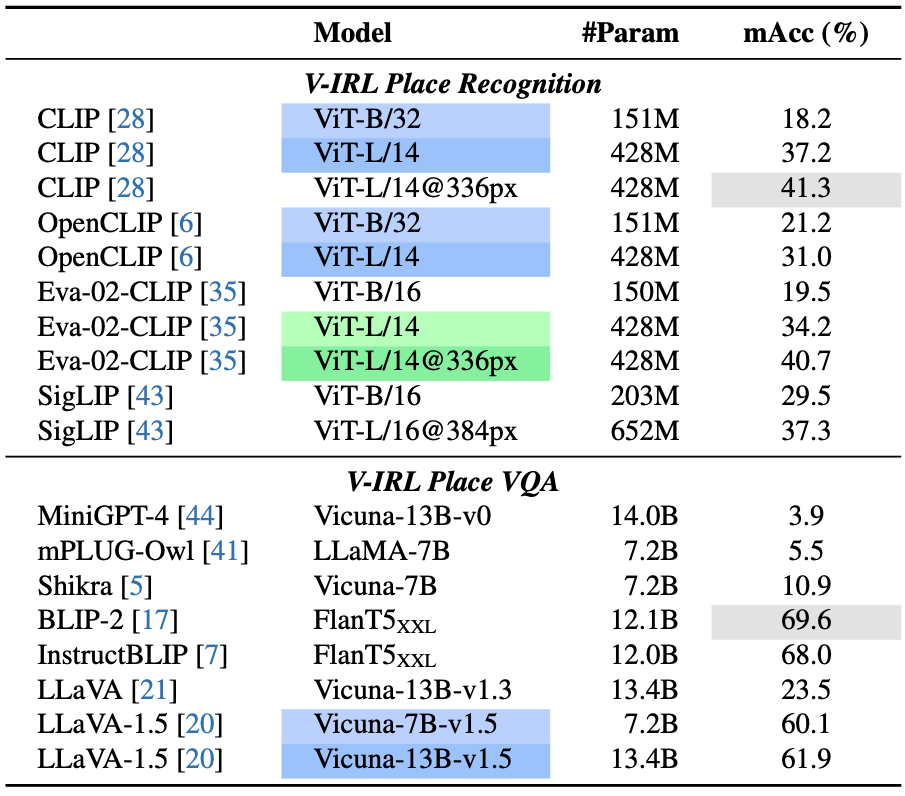
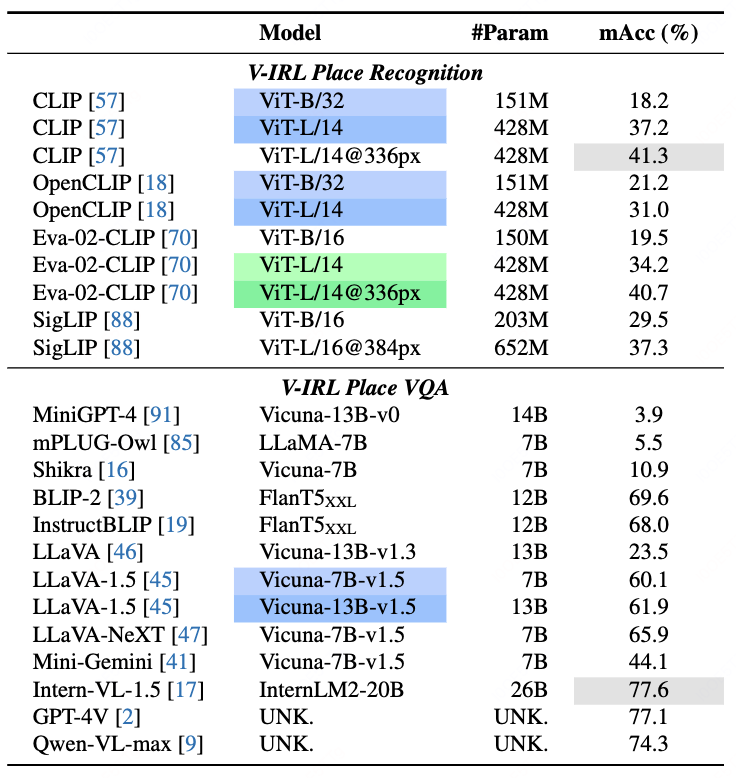
update results

diff --git a/index.html b/index.html
@@ -1263,7 +1263,7 @@
         </p>
         <p class="text">
             <strong>Setups:</strong> We modify RX-399 agent to traverse polygonal areas while localizing & identifying 20 types of places.
-            We evaluate three prominent open-world detection models:  GroundingDINO <d-cite key="liu2023grounding"></d-cite>, GLIP <d-cite key="li2022grounded"></d-cite> and Owl-ViT <d-cite key="minderer2022simple"></d-cite>. We also implement a straightforward baseline, CLIP (w/ GLIP proposal), which involves reclassifying the categories
+            We evaluate three prominent open-world detection models:  GroundingDINO <d-cite key="liu2023grounding"></d-cite>, GLIP <d-cite key="li2022grounded"></d-cite>, Owl-ViT <d-cite key="minderer2022simple"></d-cite>, OpenSeeD <d-cite key="zhang2023openseed"></d-cite> and Owl-ViT v2 <d-cite key="minderer2024owlvitv2"></d-cite>. We also implement a straightforward baseline, CLIP (w/ GLIP proposal), which involves reclassifying the categories
             of GLIP proposals with CLIP <d-cite key="radford2021learning"></d-cite>.
             Models are evaluated on localization recall, which is quantified as 
             <math xmlns="http://www.w3.org/1998/Math/MathML">
@@ -1428,7 +1428,7 @@
             </div>
         </div>
         <p class="text">
-        For intention VQA, we also evaluate 8 multi-modal large language models (MM-LLM) to determine viable human intentions from a four-option multiple-choice VQA. The V-<i>RL Place</i> VQA process is illustrated in following image, where the candidate and true choices are generated by GPT-4 <d-cite key="openai2023gpt"></d-cite> given the place types and place names corresponding to the image.
+        For intention VQA, we also evaluate 13 multi-modal large language models (MM-LLM) to determine viable human intentions from a four-option multiple-choice VQA. The V-<i>RL Place</i> VQA process is illustrated in following image, where the candidate and true choices are generated by GPT-4 <d-cite key="openai2023gpt"></d-cite> given the place types and place names corresponding to the image.
         </p>
         <figure style="margin-top: 0px; margin-bottom: 0px">
             <img src="static/img/bm_vqa_example.jpg" alt="V-IRL Place VQA" style="width: 80%; display: block; margin: auto;">
@@ -1437,9 +1437,9 @@
 
         <p class="text">
             <strong>Results:</strong> Following table shows that CLIP (L/14@336px) outperforms even the biggest version of Eva-02-CLIP and SigLIP in the V-<i>RL Place</i> recognition task, emphasizing the high-quality data of CLIP. 
-            The bottom of the table shows that in the intention VQA, 
-            BLIP2 <d-cite key="li2023blip"></d-cite>, InstructBLIP <d-cite key="dai2023instructblip"></d-cite> and LLaVA-1.5 <d-cite key="liu2023improvedllava"></d-cite> excel, whereas others struggle. 
-            We note that these three top-performing MM-LLMs provide consistent answers in the circular evaluation, while others frequently fail due to inconsistent choice selection.
+            The bottom of the table shows that LLaVA-NeXT (7B) outperforms its predecessors LLaVA-1.5 and 1.0, but still has over 8% gap to InternVL-1.5 with 26B parameters. Closed-source MLLMs GPT-4V and Qwen-VL-Max yield outstanding performance compared to most open-sourced models.
+            We note that even these top-performing MLLMs (e.g. GPT-4V and Qwen-VL-Max) still suffer from inconsistent issues during the circular evaluation .
+            Moreover, vision models perform better on place VQA over place-type recognition, suggesting direct prompts about human intention could be more effective for intention-driven tasks.
         </p>
         <figure style="margin-top: 0px; margin-bottom: 0px">
             <img src="static/img/bm_table_rec_vqa.png" alt="V-IRL Place VQA" style="width: 80%; display: block; margin: auto;">
